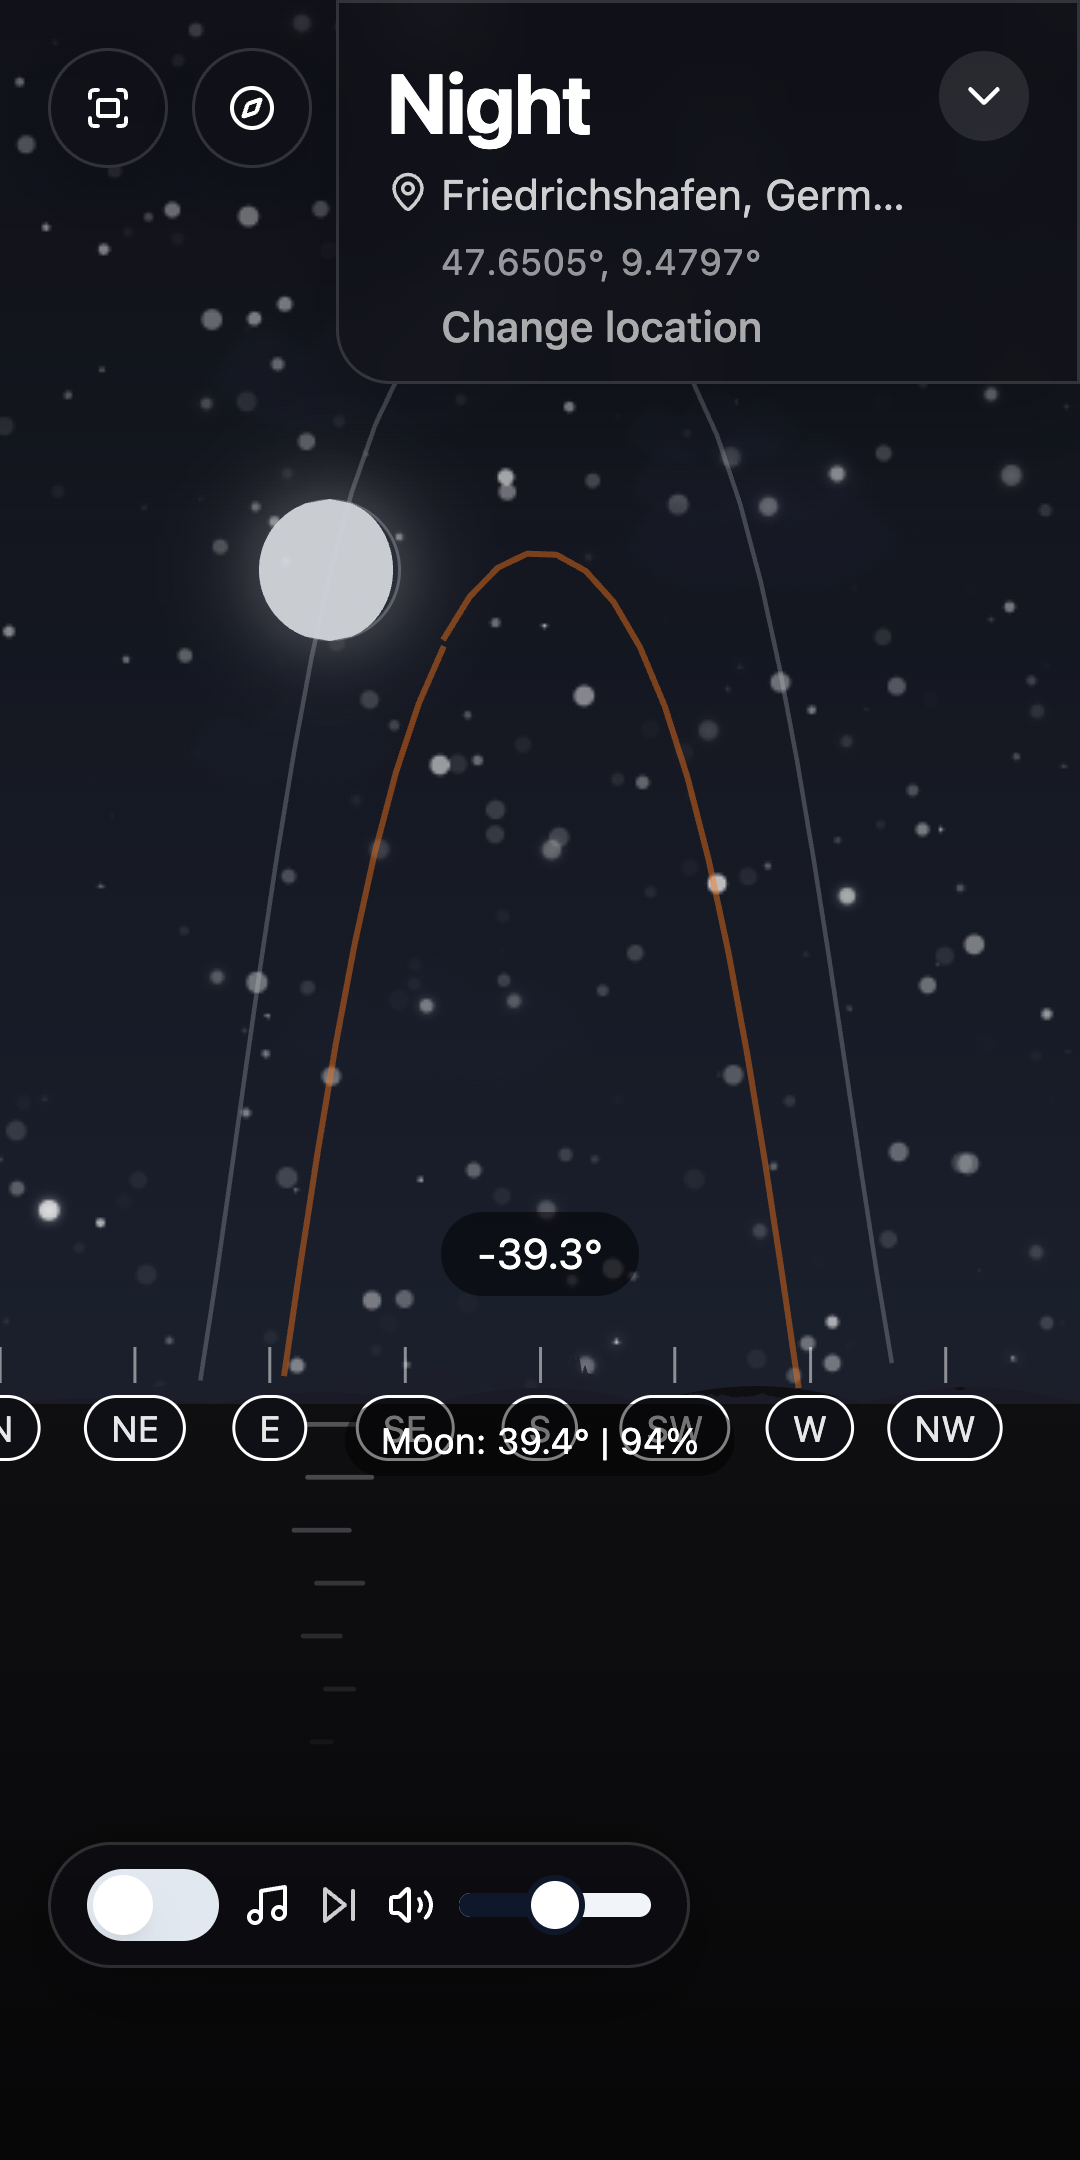
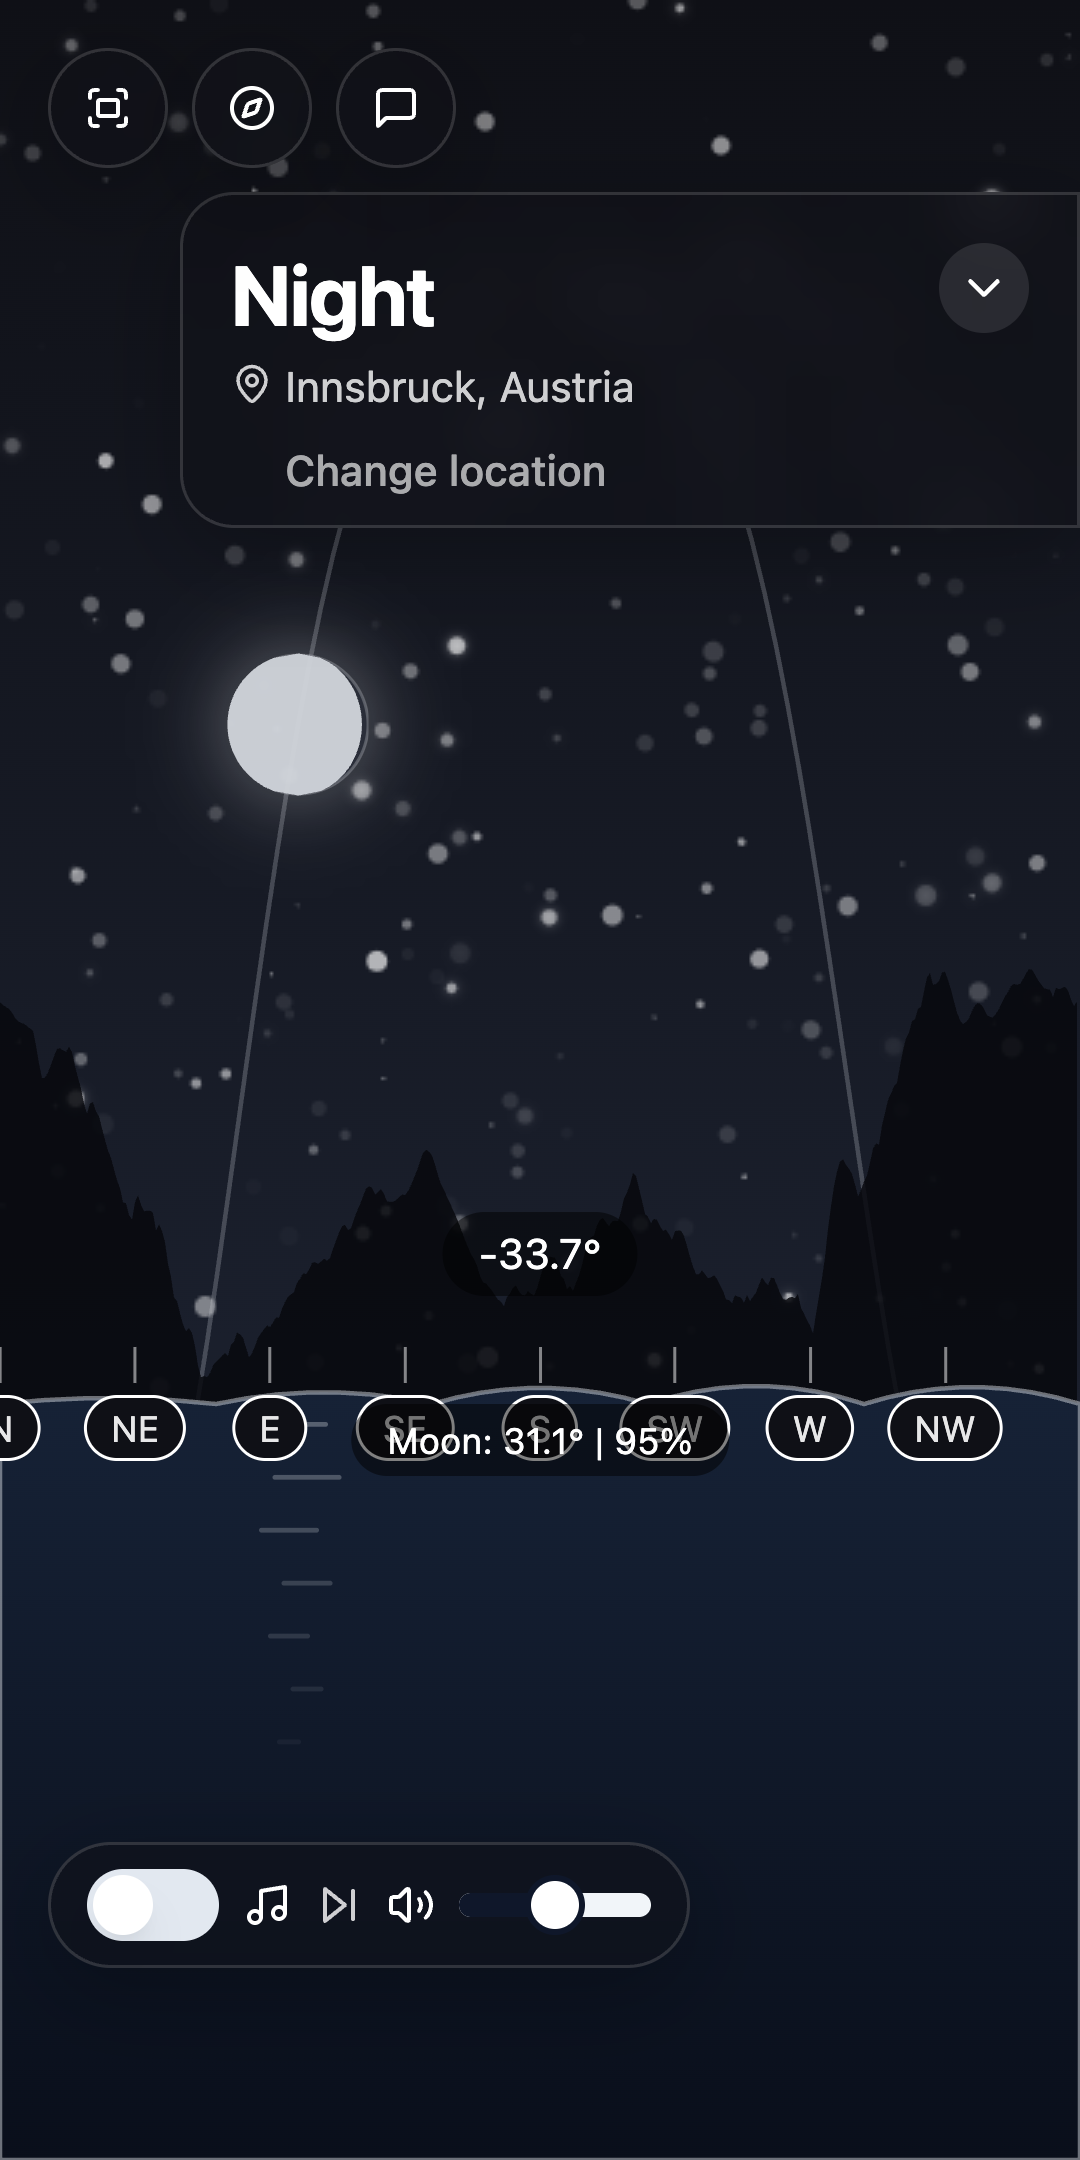
ROADMAP: mark items 22–30 done; retake store screenshots

diff --git a/ROADMAP.md b/ROADMAP.md
@@ -5,7 +5,7 @@
 > P3 = redesign and Google Play release. An ongoing easter-egg batch and a backlog follow.
 > Each item has Why, Spec, Done when, Size (S = hours to 1 day, M = days, L = 1+ weeks) and dependencies.
 
-Status: last updated 2026-09-28. Done: items 1–13 and 17–21 (marked **✅ Done** in the heading; real-device checks for 17 and 19 and the Sentry release to-dos are still open). Open: items 14–16, 22–30 (Sentry feedback), easter eggs, backlog.
+Status: last updated 2026-09-28. Done: items 1–13, 15 and 17–30 (marked **✅ Done** in the heading; real-device checks for 17 and 19 and the Sentry release to-dos are still open). Open: items 14–16, easter eggs, backlog.
 
 ## Priority rules
 
@@ -183,7 +183,7 @@ Eight feedback reports from production (Ravensburg, releases `afb9e52` and `f490
 
 **Dependency:** item 15 (redesign) is in progress in worktrees and changes `InfoPanel.tsx`, `FullscreenButton.tsx`, `CompassToggle.tsx`, `SunVisualization.tsx` and `sunUtils.ts`. Merge item 15 first, or build these items on top of it, to prevent conflicts.
 
-### 22. Top-left buttons stay together in fullscreen — S — [SUN-CHASER-2](https://ainabler.sentry.io/issues/SUN-CHASER-2)
+### 22. Top-left buttons stay together in fullscreen — S — **✅ Done** — [SUN-CHASER-2](https://ainabler.sentry.io/issues/SUN-CHASER-2)
 
 - **Feedback:** "Compass icon under the full screen not next to it."
 - **Cause (confirmed in the browser):** the two buttons use different visibility rules in fullscreen.
@@ -196,7 +196,7 @@ Eight feedback reports from production (Ravensburg, releases `afb9e52` and `f490
   - Use one visibility rule for the row: visible when not in fullscreen, or `showCursor` is true, or a button in the row has focus. Remove the separate hover state from `FullscreenButton`.
 - **Done when:** in fullscreen, a tap or mouse move shows both buttons side by side, and both fade out together after the idle timeout.
 
-### 23. Feedback available in fullscreen — S — [SUN-CHASER-5](https://ainabler.sentry.io/issues/SUN-CHASER-5)
+### 23. Feedback available in fullscreen — S — **✅ Done** — [SUN-CHASER-5](https://ainabler.sentry.io/issues/SUN-CHASER-5)
 
 - **Feedback:** "Feedback not available in full screen."
 - **Cause:** the only way to send feedback is the "Send feedback" link at the bottom of the InfoPanel. In fullscreen the panel fades out after 10 s (`InfoPanel.tsx`, `setIsVisible(false)`). A tap on the scene brings back the top-left buttons (`showCursor`), but not the panel. On a phone, the user sees no way to send feedback. The Sentry form itself works in fullscreen (checked: it attaches to `body`, and the fullscreen element is `<html>`).
@@ -206,7 +206,7 @@ Eight feedback reports from production (Ravensburg, releases `afb9e52` and `f490
   - Move the open logic (`createForm`, `appendToDom`, `open`) into one small helper, used by the button and the link.
 - **Done when:** in fullscreen on a phone, a tap on the scene shows the feedback button, and the button opens the form.
 
-### 24. Golden and blue hour: below the sun and moon times, collapsed by default — S — [SUN-CHASER-3](https://ainabler.sentry.io/issues/SUN-CHASER-3)
+### 24. Golden and blue hour: below the sun and moon times, collapsed by default — S — **✅ Done** — [SUN-CHASER-3](https://ainabler.sentry.io/issues/SUN-CHASER-3)
 
 - **Feedback:** "Golden & blue hour needs to go below sun and moon times and be collapsed on default."
 - **Current order in the panel:** Weather → Weather mode → Time (sunrise, sunset, sunset score) → Line of Sight → **Golden & Blue Hour** → Moon Information (moonrise, moonset) → Twilight → Sun Position → Send feedback.
@@ -217,7 +217,7 @@ Eight feedback reports from production (Ravensburg, releases `afb9e52` and `f490
   - Do not add it to the time-of-day auto-collapse effect. It stays collapsed until the user opens it.
 - **Done when:** a test shows the section after the moon section, collapsed at start, and expanded after one click.
 
-### 25. Hide the coordinates and the weather update time — S — [SUN-CHASER-4](https://ainabler.sentry.io/issues/SUN-CHASER-4)
+### 25. Hide the coordinates and the weather update time — S — **✅ Done** — [SUN-CHASER-4](https://ainabler.sentry.io/issues/SUN-CHASER-4)
 
 - **Feedback:** "No need for location coordinates - please hide them and as well as weather update time."
 - **Where:** coordinates in the panel header (`InfoPanel.tsx`, `location.latitude.toFixed(4)`); "Updated: HH:mm" in Current Weather.
@@ -227,7 +227,7 @@ Eight feedback reports from production (Ravensburg, releases `afb9e52` and `f490
   - Keep the coordinates in the "Change location" form fields.
 - **Done when:** with a place name, the header shows the name and no coordinates, and Current Weather has no update time. Without a place name, the coordinates show.
 
-### 26. Sun and moon arcs reach the horizon — S — [SUN-CHASER-6](https://ainabler.sentry.io/issues/SUN-CHASER-6)
+### 26. Sun and moon arcs reach the horizon — S — **✅ Done** — [SUN-CHASER-6](https://ainabler.sentry.io/issues/SUN-CHASER-6)
 
 - **Feedback:** "Arc not going to the horizon."
 - **Cause (confirmed in the browser):** two gaps in `getSunPathAround` / `getMoonPathAround` and `buildArcPath`.
@@ -241,7 +241,7 @@ Eight feedback reports from production (Ravensburg, releases `afb9e52` and `f490
   - Unit tests: the first and last points of an arc have altitude 0 (±0.1°), and a moon pass that runs past `date + 12 h` is complete.
   - At 390×844, by day and by night, both arcs touch the flat horizon line (or go behind the terrain).
 
-### 27. Sea visible at the horizon — S — [SUN-CHASER-7](https://ainabler.sentry.io/issues/SUN-CHASER-7)
+### 27. Sea visible at the horizon — S — **✅ Done** — [SUN-CHASER-7](https://ainabler.sentry.io/issues/SUN-CHASER-7)
 
 - **Feedback:** "Sea is missing at the horizon." (sent at 21:27, night, with the terrain profile on)
 - **Cause (seen in the browser):**
@@ -255,7 +255,7 @@ Eight feedback reports from production (Ravensburg, releases `afb9e52` and `f490
   - Check first after item 15 merges: `feat/redesign` adds water and ridge colour tokens and a water reflection, which can fix part of this.
 - **Done when:** at 390×844, at night and by day, with and without terrain, the sea and its wave line are visible below the horizon.
 
-### 28. Sentry scrub: filter location values anywhere in a string — S — [SUN-CHASER-1](https://ainabler.sentry.io/issues/SUN-CHASER-1)
+### 28. Sentry scrub: filter location values anywhere in a string — S — **✅ Done** — [SUN-CHASER-1](https://ainabler.sentry.io/issues/SUN-CHASER-1)
 
 - **Finding:** the setup test error "Sentry test from sun-chaser setup (latitude=47.65&longitude=[Filtered]" shows the latitude. `LOCATION_PARAM` in `src/utils/sentryScrub.ts` only matches a key after `?` or `&`. Real request URLs always have one of these, so the risk is low, but a key at the start of a string or after `(` or a space is not filtered.
 - **Spec:**
@@ -264,7 +264,7 @@ Eight feedback reports from production (Ravensburg, releases `afb9e52` and `f490
   - Resolve SUN-CHASER-1 in Sentry after the merge (it is a test event from `localhost`).
 - **Done when:** the test shows `latitude=[Filtered]&longitude=[Filtered]` for the test string, and the existing tests still pass.
 
-### 29. Direction labels fade out in fullscreen — S — [SUN-CHASER-9](https://ainabler.sentry.io/issues/SUN-CHASER-9)
+### 29. Direction labels fade out in fullscreen — S — **✅ Done** — [SUN-CHASER-9](https://ainabler.sentry.io/issues/SUN-CHASER-9)
 
 - **Feedback:** "Direction labels should also fade out in full screen."
 - **Cause:** the cardinal labels (item 8) in `SunVisualization.tsx` are always drawn. `SunVisualization` gets neither `isFullscreen` nor the idle state `showCursor` from `SunTracker`, so the labels cannot fade with the buttons.
@@ -274,7 +274,7 @@ Eight feedback reports from production (Ravensburg, releases `afb9e52` and `f490
   - Keep the labels visible in compass mode, where they are needed to aim the phone.
 - **Done when:** in fullscreen, the labels fade out together with the buttons and come back on a tap. A test covers the visible and hidden states.
 
-### 30. Line of Sight as an icon at the sun and moon times — S — [SUN-CHASER-8](https://ainabler.sentry.io/issues/SUN-CHASER-8)
+### 30. Line of Sight as an icon at the sun and moon times — S — **✅ Done** — [SUN-CHASER-8](https://ainabler.sentry.io/issues/SUN-CHASER-8)
 
 - **Feedback:** "Line of sight should be a separate icon that adds that info panel when clicked on at the moon or at the sun times."
 - **Now:** Line of Sight is its own panel section (between the sun times and Golden & Blue Hour) with four rows: terrain sunrise, sunset, moonrise and moonset. At 390 px the values ("behind terrain 07:44 (+27 min)") are wider than the value column, wrap and move the labels out of line (seen in the browser).
